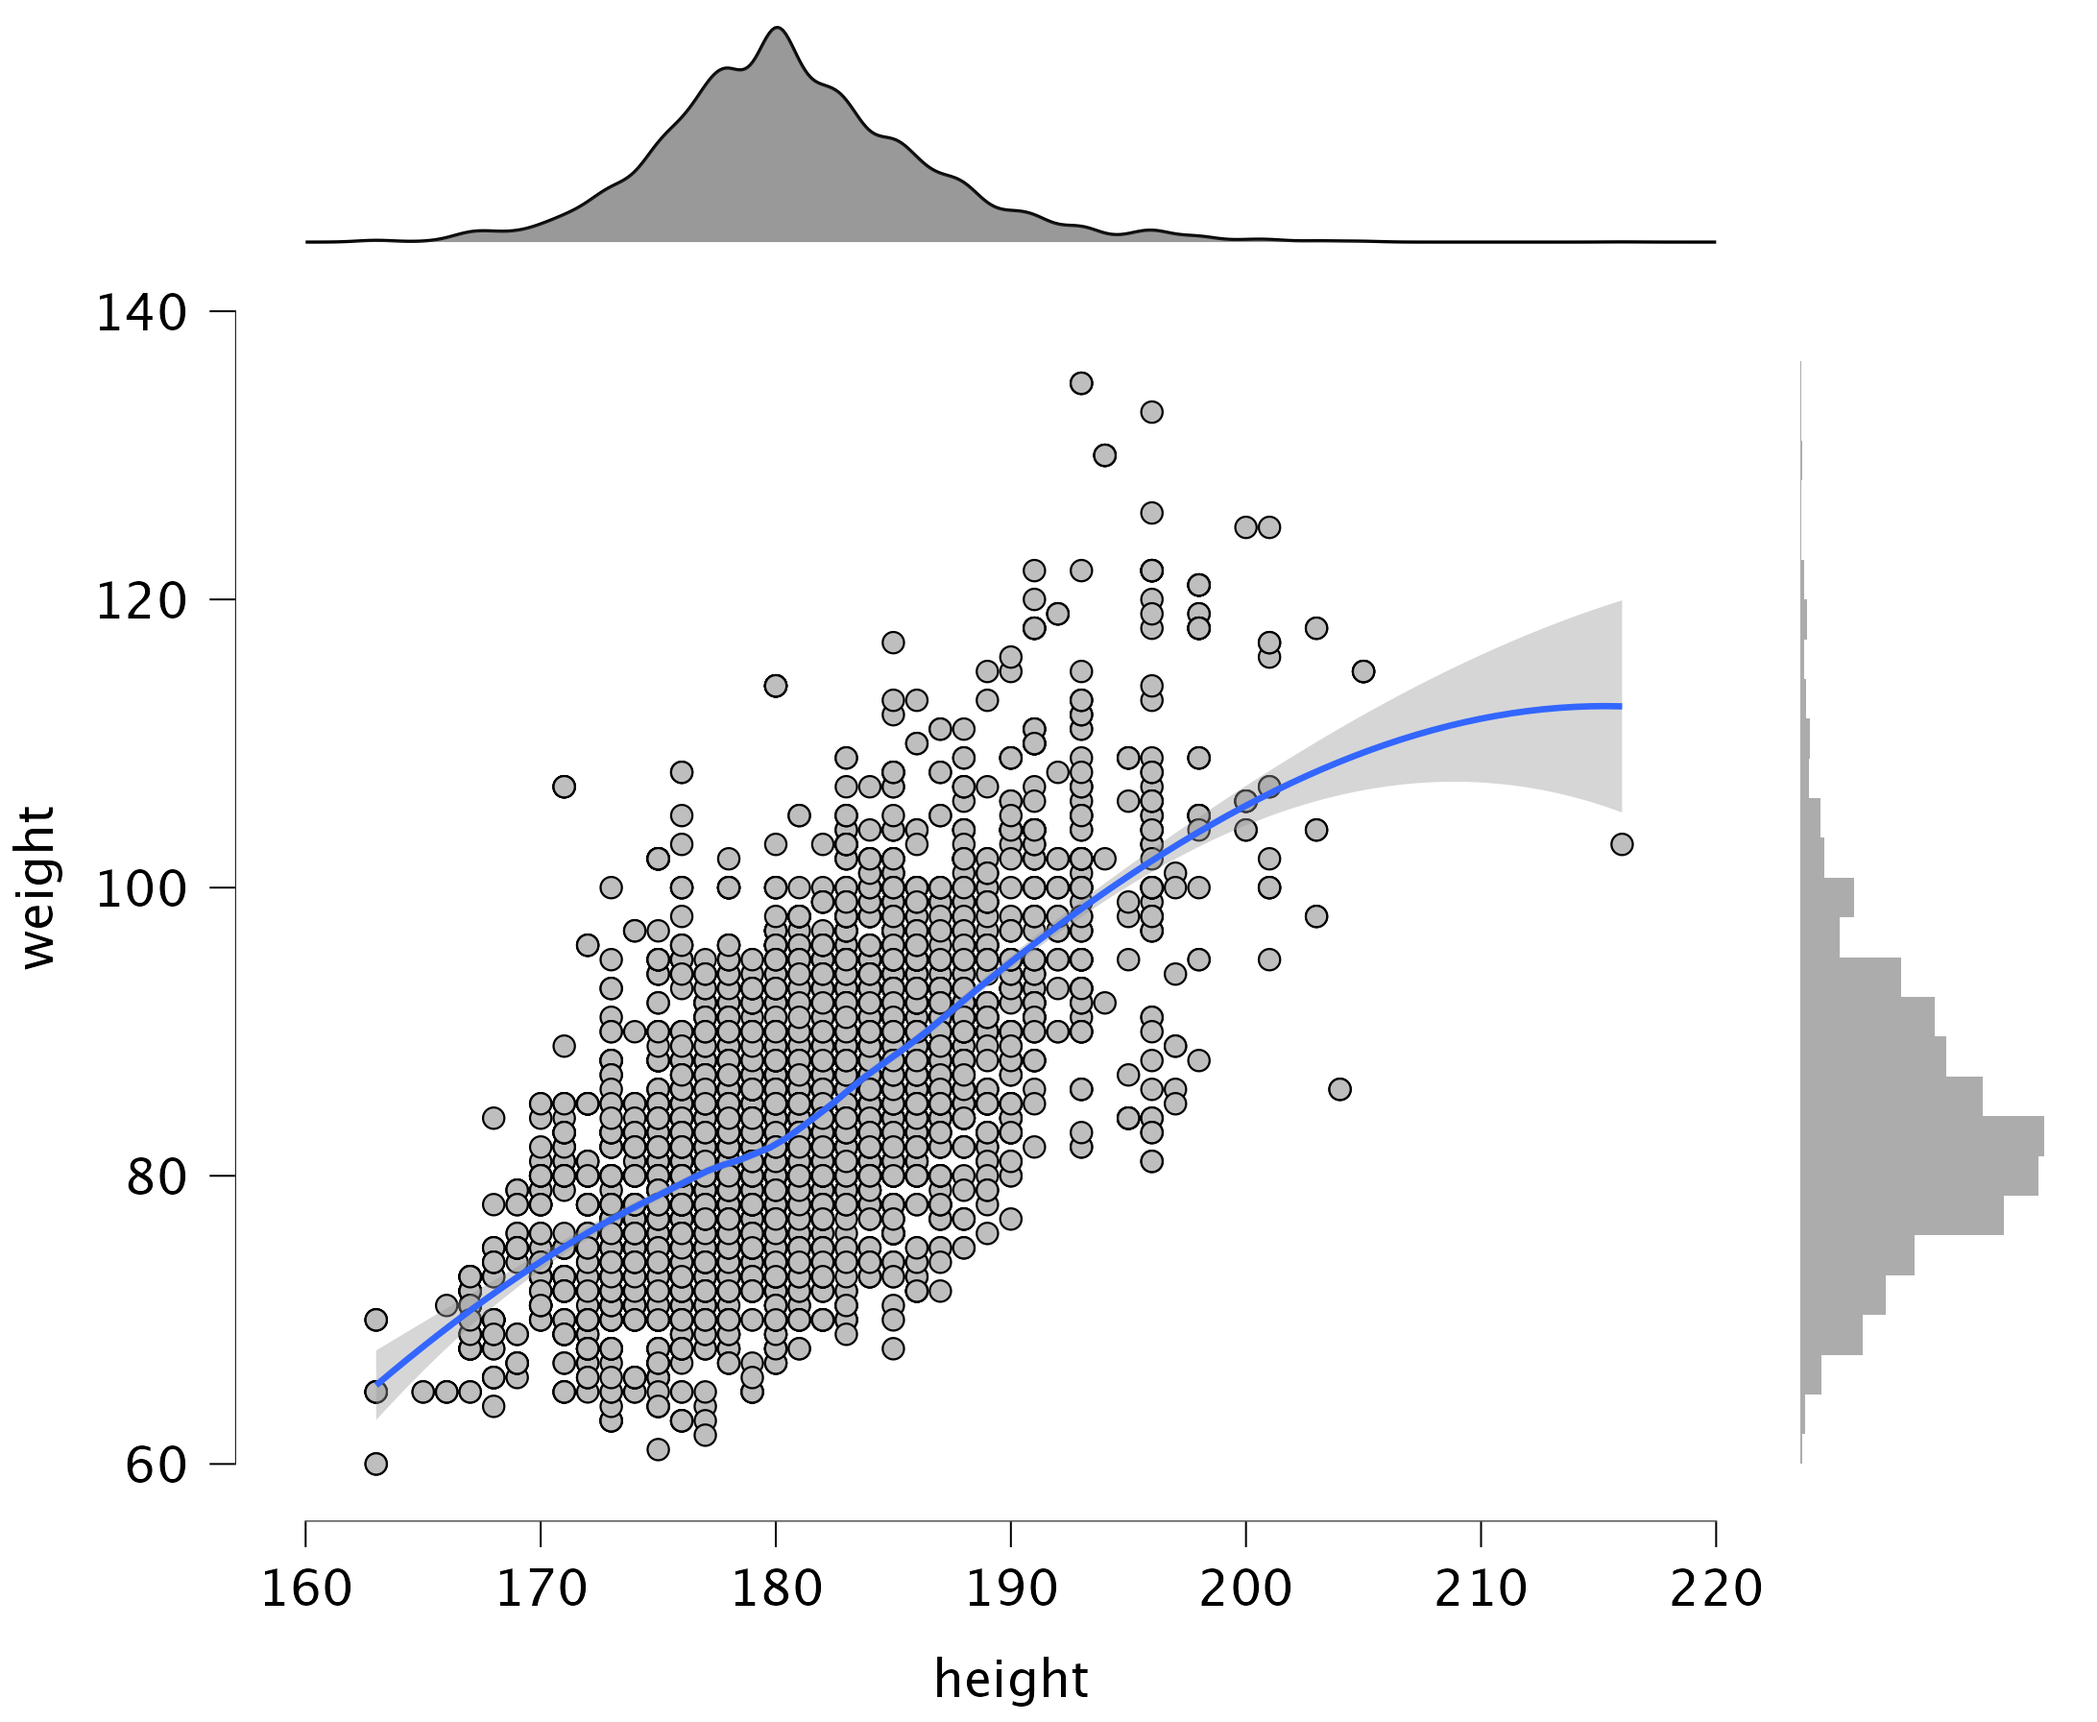
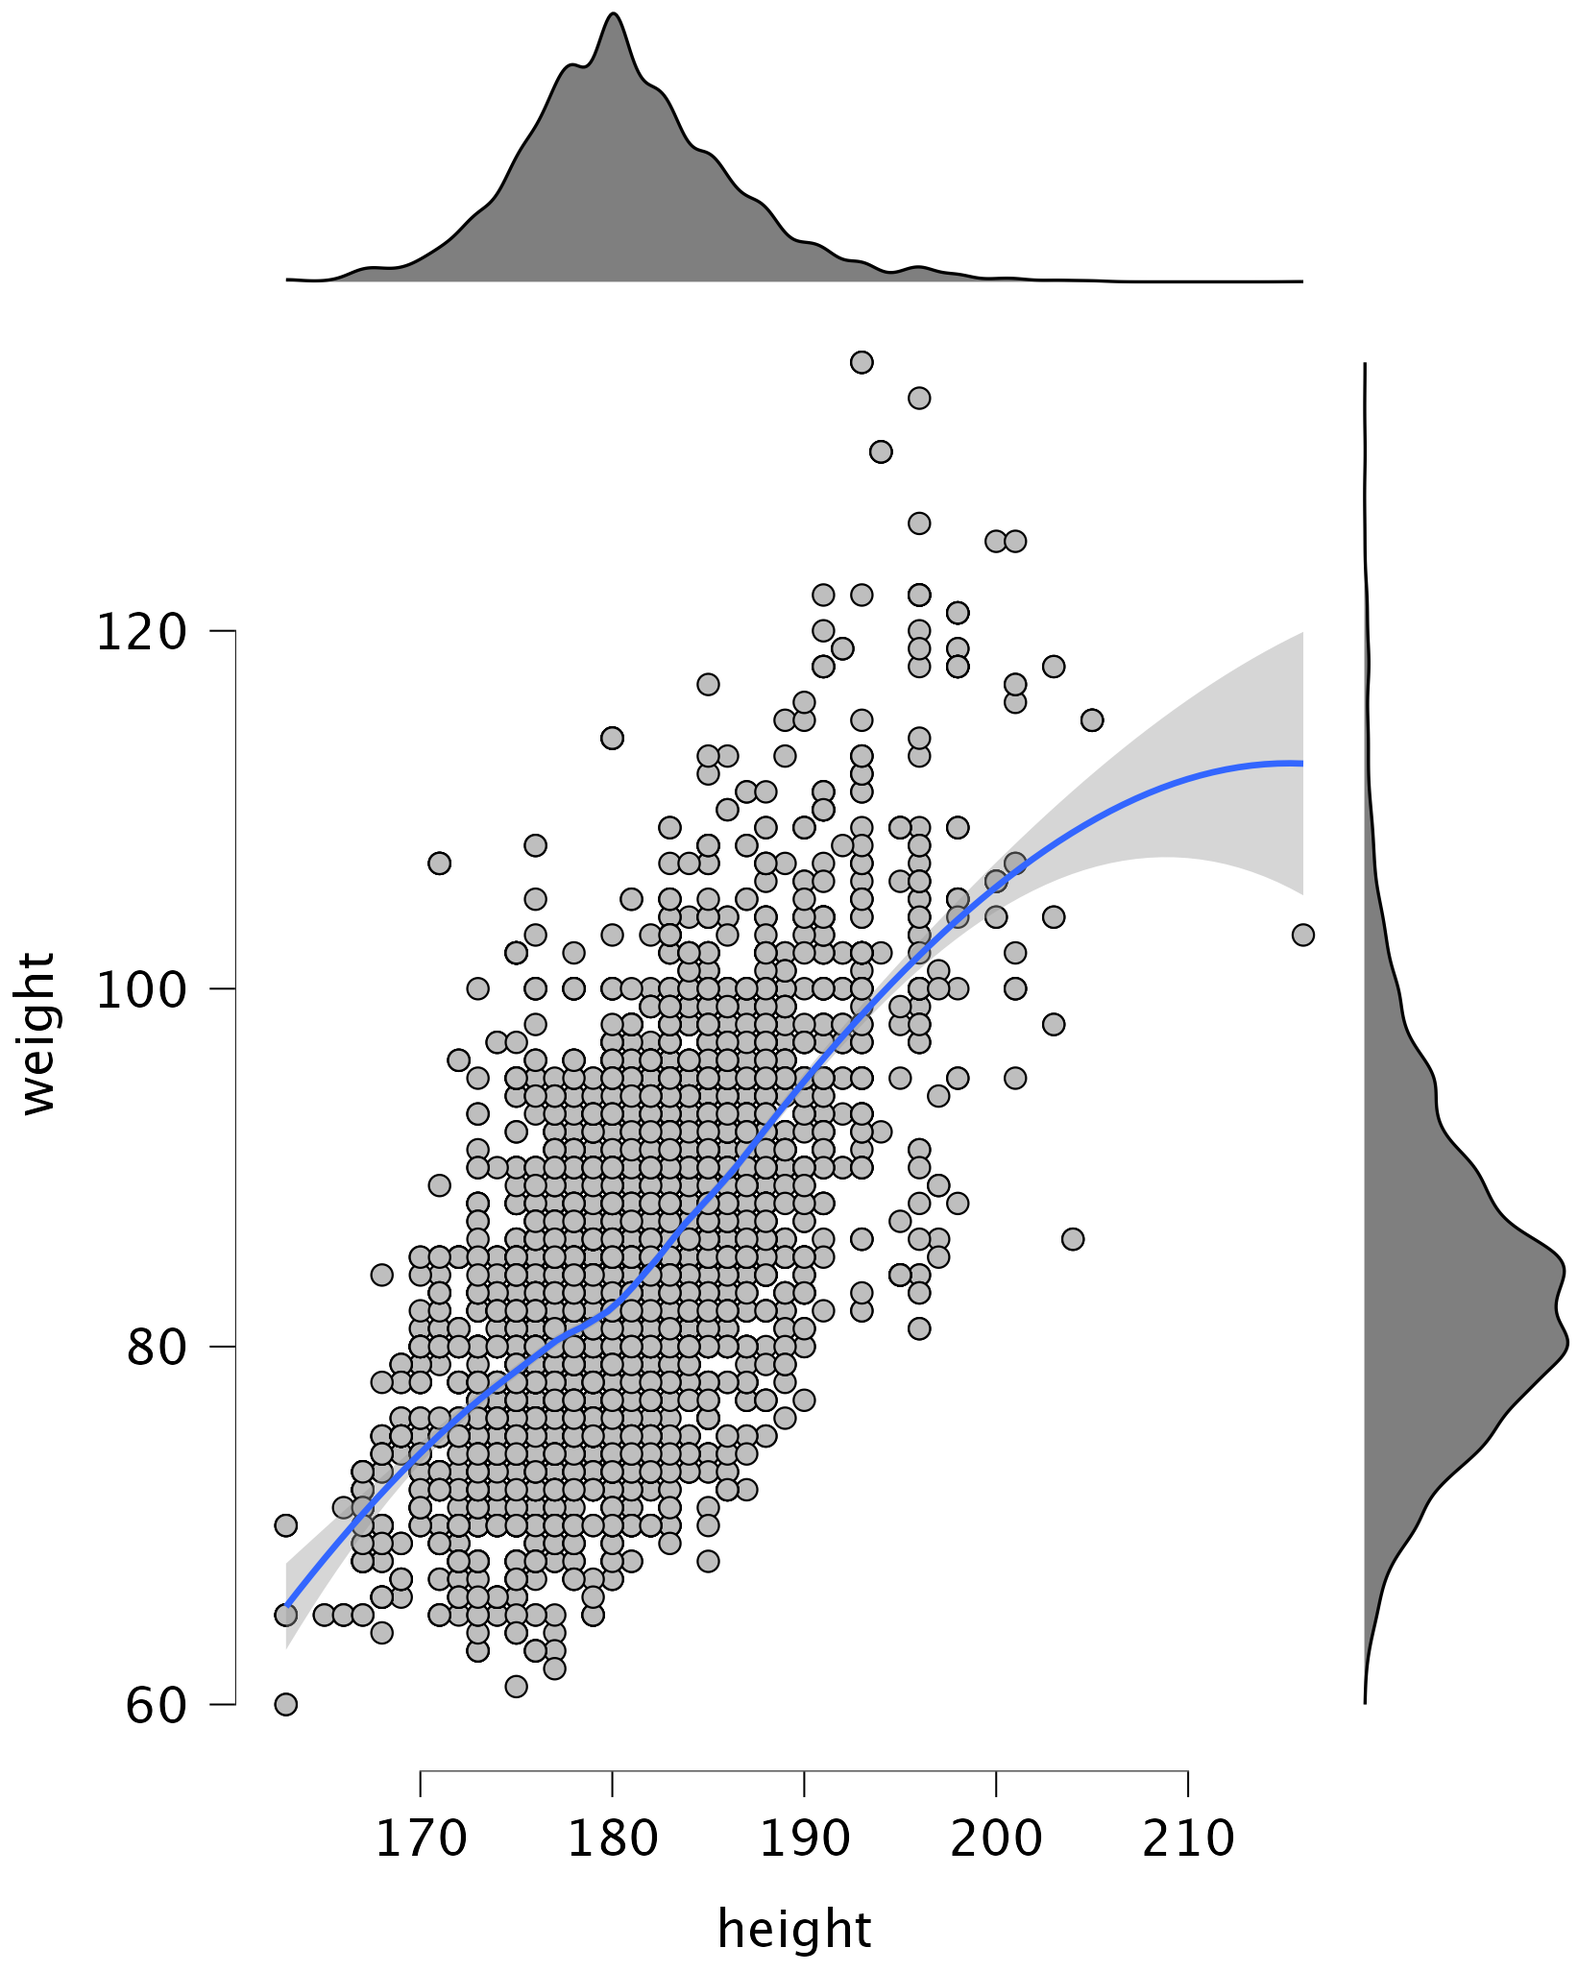
ch28: JASPスクショ残り3枚を差し替え、相関係数の誤りを修正
据え置きとしていた3枚を撮り直していただき差し替えた。確認したところ、
実際には差し替えるべき違いがあった。

- JASP_cor1.png: 旧図(0.95)は3桁表示の -0.350 だったが、新図は -0.3501。
  **本文が r=-0.3650 と書いており、値そのものが誤っていた**ことが判明したため
  -0.3501 に修正。本文の確信区間 [-0.270,-0.424] の中心が約 -0.347 であり、
  区間のほうが図と整合していて点推定値の記述だけが浮いていた
- JASP_plot01.png: 右側の周辺分布がヒストグラム→密度曲線に変わっていた
- JASP_plot02.png: 新しいUIの保存メニュー（コピー/引用をコピーする/画像を名前を
  付けて保存/画像の編集/ノートの追加）。キャプション「JASPの図オブジェクトは
  保存できる」と合致し、図の中身も plot01 と同じ散布図なので本文の流れとも繋がる

縦横比が大きく変わったため組版を確認したが、Overfull vbox は0で、
ページ数も14ページのまま。図はいずれも指定幅に収まっている。

これで ch28 のスクリーンショット15枚すべてが JASP 0.98.1 のものになった。

Claude-Session: https://claude.ai/code/session_01BU4RxAiBTT9hFm9ZwuFDEP

diff --git a/Psychometrics/contents_basic/ch28_bayesian_with_jasp.tex b/Psychometrics/contents_basic/ch28_bayesian_with_jasp.tex
@@ -144,7 +144,7 @@ JASPが持っているサンプルデータだけでなく，OSF\footnote{Open S
 	\label{fig:28_12}
 \end{figure}
 オプションのところにはデフォルトで，「ピアソンのr」と「有意性の報告」にチェックが入っています。
-いわゆる相関係数は\textbf{ピアソンの積率相関係数}というのが正式名称ですが，JASPでは順序尺度水準の数字に適用できるスピアマンの順位相関係数や，ケンドールのタウbと呼ばれる相関係数にすることもできます。また，有意性の報告にチェックが入っていて，表には$p$値がでています。思い出して欲しいのですが，帰無仮説検定として「母相関$\rho$はゼロである」という無相関を仮定したモデルと，「母相関はゼロではない」という対立仮説を比べています。たとえば神経症傾向と外向性の相関係数は$r=-0.3650$であり，これが母相関$\rho=0$のところから得られたデータだと考えるにはちょっと珍しすぎるよね($p<.001$)ということが示されています。オプションで「有意な相関のフラグを立てる」にチェックを入れると，有意なところにはアスタリスクマークがつき，$p$値が小さいほどアスタリスクの数は増えることでそれを示しています\footnote{これが良くない風習ですね！$p$値が小さくても，相関係数が大きいことを意味しませんし，仮説の正しさを支持するものでもありません。}
+いわゆる相関係数は\textbf{ピアソンの積率相関係数}というのが正式名称ですが，JASPでは順序尺度水準の数字に適用できるスピアマンの順位相関係数や，ケンドールのタウbと呼ばれる相関係数にすることもできます。また，有意性の報告にチェックが入っていて，表には$p$値がでています。思い出して欲しいのですが，帰無仮説検定として「母相関$\rho$はゼロである」という無相関を仮定したモデルと，「母相関はゼロではない」という対立仮説を比べています。たとえば神経症傾向と外向性の相関係数は$r=-0.3501$であり，これが母相関$\rho=0$のところから得られたデータだと考えるにはちょっと珍しすぎるよね($p<.001$)ということが示されています。オプションで「有意な相関のフラグを立てる」にチェックを入れると，有意なところにはアスタリスクマークがつき，$p$値が小さいほどアスタリスクの数は増えることでそれを示しています\footnote{これが良くない風習ですね！$p$値が小さくても，相関係数が大きいことを意味しませんし，仮説の正しさを支持するものでもありません。}
 
 同じ分析をベイズ的にやってみましょう。メニューの中で回帰$\to$ベイジアン・相関と進むだけです。変数の選び方も同じ操作です。
 分析結果の追加オプションには，$p$値ではなく\keytermL{ベイズファクター}{べいずふぁくたー}が入っています。
